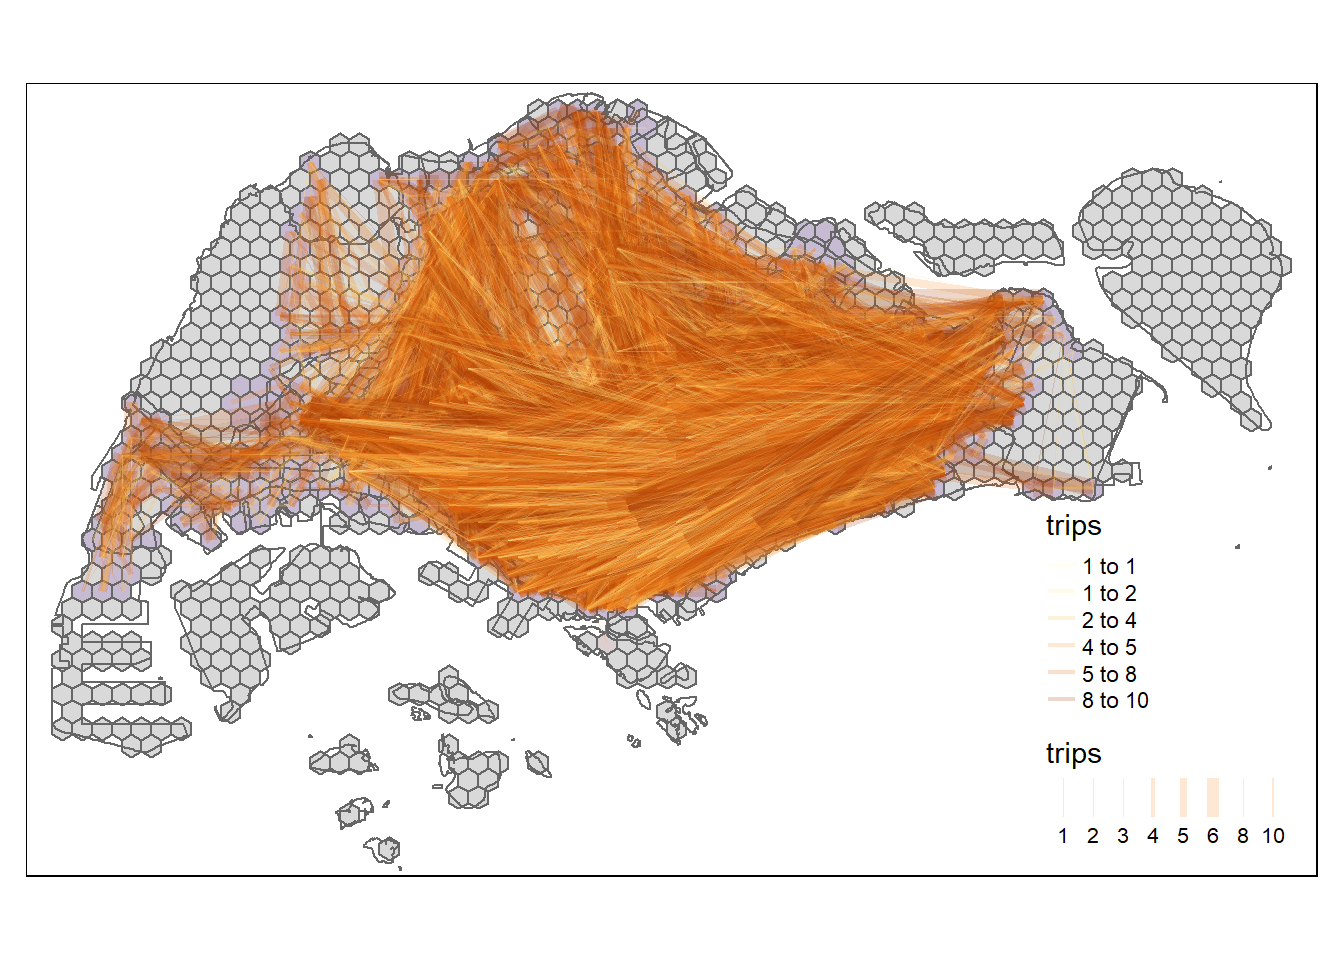
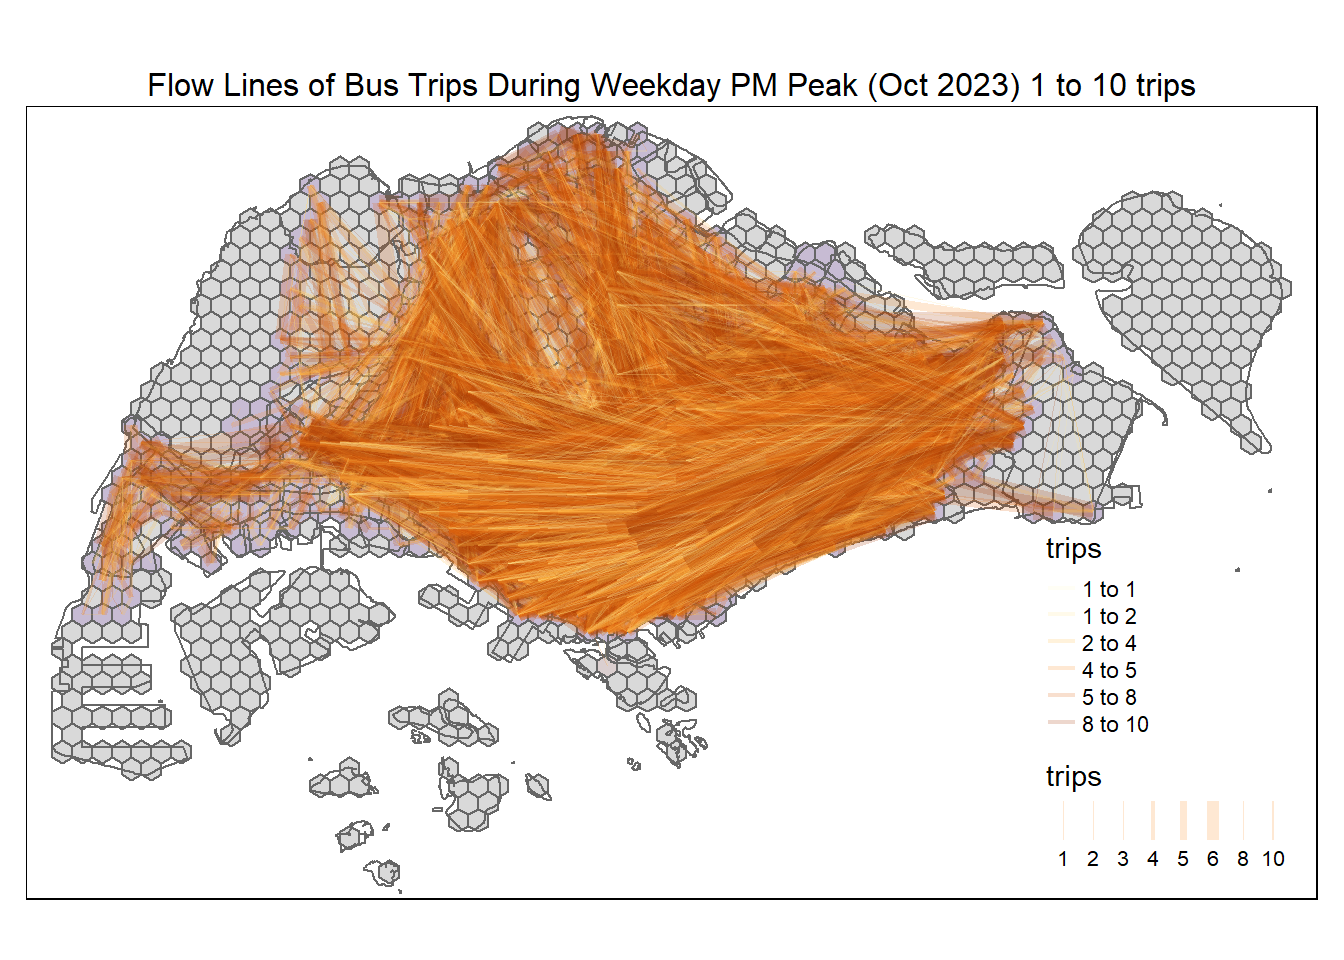
Commit Take-home Ex02

Changed region(s): [[0.0312, 0.0625, 0.9688, 0.8438], [0.0312, 0.6875, 0.9688, 0.9375]]

diff --git a/_site/Take_Home_Ex/Take_home_Ex02/Take_home_Ex02.html b/_site/Take_Home_Ex/Take_home_Ex02/Take_home_Ex02.html
@@ -691,7 +691,10 @@ Projected CRS: SVY21 / Singapore TM
 <span id="cb33-10"><a href="#cb33-10" aria-hidden="true" tabindex="-1"></a>           <span class="at">style =</span> <span class="st">"quantile"</span>,</span>
 <span id="cb33-11"><a href="#cb33-11" aria-hidden="true" tabindex="-1"></a>           <span class="at">scale =</span> <span class="fu">c</span>(<span class="fl">0.1</span>,<span class="dv">1</span>,<span class="dv">3</span>,<span class="dv">5</span>,<span class="dv">7</span>,<span class="dv">10</span>),</span>
 <span id="cb33-12"><a href="#cb33-12" aria-hidden="true" tabindex="-1"></a>           <span class="at">n =</span> <span class="dv">6</span>,</span>
-<span id="cb33-13"><a href="#cb33-13" aria-hidden="true" tabindex="-1"></a>           <span class="at">alpha =</span> <span class="fl">0.3</span>) </span></code><button title="Copy to Clipboard" class="code-copy-button"><i class="bi"></i></button></pre></div>
+<span id="cb33-13"><a href="#cb33-13" aria-hidden="true" tabindex="-1"></a>           <span class="at">alpha =</span> <span class="fl">0.3</span>) <span class="sc">+</span></span>
+<span id="cb33-14"><a href="#cb33-14" aria-hidden="true" tabindex="-1"></a><span class="fu">tm_layout</span>(<span class="at">main.title =</span> <span class="st">"Flow Lines of Bus Trips During Weekday PM Peak (Oct 2023)"</span>,</span>
+<span id="cb33-15"><a href="#cb33-15" aria-hidden="true" tabindex="-1"></a>          <span class="at">main.title.position =</span> <span class="st">"center"</span>,</span>
+<span id="cb33-16"><a href="#cb33-16" aria-hidden="true" tabindex="-1"></a>          <span class="at">main.title.size =</span> <span class="dv">1</span>)</span></code><button title="Copy to Clipboard" class="code-copy-button"><i class="bi"></i></button></pre></div>
 <div class="cell-output-display">
 <p><img src="Take_home_Ex02_files/figure-html/unnamed-chunk-18-1.png" class="img-fluid" width="672"></p>
 </div>
@@ -751,7 +754,7 @@ Projected CRS: SVY21 / Singapore TM
 <span id="cb38-21"><a href="#cb38-21" aria-hidden="true" tabindex="-1"></a></span>
 <span id="cb38-22"><a href="#cb38-22" aria-hidden="true" tabindex="-1"></a><span class="co"># plot flow lines</span></span>
 <span id="cb38-23"><a href="#cb38-23" aria-hidden="true" tabindex="-1"></a>flow_line <span class="sc">%&gt;%</span></span>
-<span id="cb38-24"><a href="#cb38-24" aria-hidden="true" tabindex="-1"></a>  <span class="co"># where trips are greater than or equal to 214</span></span>
+<span id="cb38-24"><a href="#cb38-24" aria-hidden="true" tabindex="-1"></a>  <span class="co"># where trips are between 1 to 10</span></span>
 <span id="cb38-25"><a href="#cb38-25" aria-hidden="true" tabindex="-1"></a>  <span class="fu">filter</span>(trips <span class="sc">&gt;=</span> <span class="dv">1</span> <span class="sc">&amp;</span> trips <span class="sc">&lt;=</span> <span class="dv">10</span>) <span class="sc">%&gt;%</span></span>
 <span id="cb38-26"><a href="#cb38-26" aria-hidden="true" tabindex="-1"></a><span class="fu">tm_shape</span>() <span class="sc">+</span></span>
 <span id="cb38-27"><a href="#cb38-27" aria-hidden="true" tabindex="-1"></a>  <span class="fu">tm_lines</span>(<span class="at">lwd =</span> <span class="st">"trips"</span>,</span>
@@ -759,7 +762,10 @@ Projected CRS: SVY21 / Singapore TM
 <span id="cb38-29"><a href="#cb38-29" aria-hidden="true" tabindex="-1"></a>           <span class="at">scale =</span> <span class="fu">c</span>(<span class="fl">0.1</span>,<span class="dv">1</span>,<span class="dv">3</span>,<span class="dv">5</span>,<span class="dv">7</span>,<span class="dv">10</span>),</span>
 <span id="cb38-30"><a href="#cb38-30" aria-hidden="true" tabindex="-1"></a>           <span class="at">n =</span> <span class="dv">6</span>,</span>
 <span id="cb38-31"><a href="#cb38-31" aria-hidden="true" tabindex="-1"></a>           <span class="at">alpha =</span> <span class="fl">0.2</span>,</span>
-<span id="cb38-32"><a href="#cb38-32" aria-hidden="true" tabindex="-1"></a>           <span class="at">col =</span> <span class="st">'trips'</span>)</span></code><button title="Copy to Clipboard" class="code-copy-button"><i class="bi"></i></button></pre></div>
+<span id="cb38-32"><a href="#cb38-32" aria-hidden="true" tabindex="-1"></a>           <span class="at">col =</span> <span class="st">'trips'</span>) <span class="sc">+</span></span>
+<span id="cb38-33"><a href="#cb38-33" aria-hidden="true" tabindex="-1"></a><span class="fu">tm_layout</span>(<span class="at">main.title =</span> <span class="st">"Flow Lines of Bus Trips During Weekday PM Peak (Oct 2023) 1 to 10 trips"</span>,</span>
+<span id="cb38-34"><a href="#cb38-34" aria-hidden="true" tabindex="-1"></a>          <span class="at">main.title.position =</span> <span class="st">"center"</span>,</span>
+<span id="cb38-35"><a href="#cb38-35" aria-hidden="true" tabindex="-1"></a>          <span class="at">main.title.size =</span> <span class="dv">1</span>)</span></code><button title="Copy to Clipboard" class="code-copy-button"><i class="bi"></i></button></pre></div>
 </details>
 <div class="cell-output-display">
 <p><img src="Take_home_Ex02_files/figure-html/unnamed-chunk-22-1.png" class="img-fluid" width="672"></p>
@@ -797,14 +803,17 @@ Projected CRS: SVY21 / Singapore TM
 <span id="cb39-25"><a href="#cb39-25" aria-hidden="true" tabindex="-1"></a>  <span class="fu">filter</span>(trips <span class="sc">==</span> <span class="dv">1</span>) <span class="sc">%&gt;%</span></span>
 <span id="cb39-26"><a href="#cb39-26" aria-hidden="true" tabindex="-1"></a><span class="fu">tm_shape</span>() <span class="sc">+</span></span>
 <span id="cb39-27"><a href="#cb39-27" aria-hidden="true" tabindex="-1"></a>  <span class="fu">tm_lines</span>(<span class="at">lwd =</span> <span class="st">"trips"</span>,</span>
-<span id="cb39-28"><a href="#cb39-28" aria-hidden="true" tabindex="-1"></a>           <span class="at">alpha =</span> <span class="fl">0.2</span>)</span></code><button title="Copy to Clipboard" class="code-copy-button"><i class="bi"></i></button></pre></div>
+<span id="cb39-28"><a href="#cb39-28" aria-hidden="true" tabindex="-1"></a>           <span class="at">alpha =</span> <span class="fl">0.2</span>) <span class="sc">+</span></span>
+<span id="cb39-29"><a href="#cb39-29" aria-hidden="true" tabindex="-1"></a><span class="fu">tm_layout</span>(<span class="at">main.title =</span> <span class="st">"Flow Lines of Bus Trips During Weekday PM Peak (Oct 2023) 1 trip"</span>,</span>
+<span id="cb39-30"><a href="#cb39-30" aria-hidden="true" tabindex="-1"></a>          <span class="at">main.title.position =</span> <span class="st">"center"</span>,</span>
+<span id="cb39-31"><a href="#cb39-31" aria-hidden="true" tabindex="-1"></a>          <span class="at">main.title.size =</span> <span class="dv">1</span>)</span></code><button title="Copy to Clipboard" class="code-copy-button"><i class="bi"></i></button></pre></div>
 </details>
 <div class="cell-output-display">
 <p><img src="Take_home_Ex02_files/figure-html/unnamed-chunk-23-1.png" class="img-fluid" width="672"></p>
 </div>
 </div>
 <p>We can observe more clearly that flow lines with only one trip recorded tend to cross paths or converge at the southern-central region. Higher number of flows are observed between the western, eastern, and central regions of Singapore. Some flow lines are also observed in the outskirt regions of Singapore in Lim Chu Kang and Tuas.</p>
-<p>Next, we will visualise flow lines with 10 to 46 trips recorded:</p>
+<p>Next, we will visualise flow lines with 11 to 46 trips recorded:</p>
 <div class="cell">
 <details>
 <summary>Show the code</summary>
@@ -831,21 +840,24 @@ Projected CRS: SVY21 / Singapore TM
 <span id="cb40-21"><a href="#cb40-21" aria-hidden="true" tabindex="-1"></a></span>
 <span id="cb40-22"><a href="#cb40-22" aria-hidden="true" tabindex="-1"></a><span class="co"># plot flow lines</span></span>
 <span id="cb40-23"><a href="#cb40-23" aria-hidden="true" tabindex="-1"></a>flow_line <span class="sc">%&gt;%</span></span>
-<span id="cb40-24"><a href="#cb40-24" aria-hidden="true" tabindex="-1"></a>  <span class="co"># where trips are between 10 and 46</span></span>
-<span id="cb40-25"><a href="#cb40-25" aria-hidden="true" tabindex="-1"></a>  <span class="fu">filter</span>(trips <span class="sc">&gt;=</span> <span class="dv">10</span> <span class="sc">&amp;</span> trips <span class="sc">&lt;=</span> <span class="dv">46</span>) <span class="sc">%&gt;%</span></span>
+<span id="cb40-24"><a href="#cb40-24" aria-hidden="true" tabindex="-1"></a>  <span class="co"># where trips are between 11 and 46</span></span>
+<span id="cb40-25"><a href="#cb40-25" aria-hidden="true" tabindex="-1"></a>  <span class="fu">filter</span>(trips <span class="sc">&gt;=</span> <span class="dv">11</span> <span class="sc">&amp;</span> trips <span class="sc">&lt;=</span> <span class="dv">46</span>) <span class="sc">%&gt;%</span></span>
 <span id="cb40-26"><a href="#cb40-26" aria-hidden="true" tabindex="-1"></a><span class="fu">tm_shape</span>() <span class="sc">+</span></span>
 <span id="cb40-27"><a href="#cb40-27" aria-hidden="true" tabindex="-1"></a>  <span class="fu">tm_lines</span>(<span class="at">lwd =</span> <span class="st">"trips"</span>,</span>
 <span id="cb40-28"><a href="#cb40-28" aria-hidden="true" tabindex="-1"></a>           <span class="at">style =</span> <span class="st">"quantile"</span>,</span>
 <span id="cb40-29"><a href="#cb40-29" aria-hidden="true" tabindex="-1"></a>           <span class="at">scale =</span> <span class="fu">c</span>(<span class="fl">0.1</span>,<span class="dv">1</span>,<span class="dv">3</span>,<span class="dv">5</span>,<span class="dv">7</span>,<span class="dv">10</span>),</span>
 <span id="cb40-30"><a href="#cb40-30" aria-hidden="true" tabindex="-1"></a>           <span class="at">n =</span> <span class="dv">6</span>,</span>
 <span id="cb40-31"><a href="#cb40-31" aria-hidden="true" tabindex="-1"></a>           <span class="at">alpha =</span> <span class="fl">0.2</span>,</span>
-<span id="cb40-32"><a href="#cb40-32" aria-hidden="true" tabindex="-1"></a>           <span class="at">col =</span> <span class="st">"trips"</span>)</span></code><button title="Copy to Clipboard" class="code-copy-button"><i class="bi"></i></button></pre></div>
+<span id="cb40-32"><a href="#cb40-32" aria-hidden="true" tabindex="-1"></a>           <span class="at">col =</span> <span class="st">"trips"</span>) <span class="sc">+</span></span>
+<span id="cb40-33"><a href="#cb40-33" aria-hidden="true" tabindex="-1"></a><span class="fu">tm_layout</span>(<span class="at">main.title =</span> <span class="st">"Flow Lines of Bus Trips During Weekday PM Peak (Oct 2023) 11 to 46 trips"</span>,</span>
+<span id="cb40-34"><a href="#cb40-34" aria-hidden="true" tabindex="-1"></a>          <span class="at">main.title.position =</span> <span class="st">"center"</span>,</span>
+<span id="cb40-35"><a href="#cb40-35" aria-hidden="true" tabindex="-1"></a>          <span class="at">main.title.size =</span> <span class="dv">1</span>)</span></code><button title="Copy to Clipboard" class="code-copy-button"><i class="bi"></i></button></pre></div>
 </details>
 <div class="cell-output-display">
 <p><img src="Take_home_Ex02_files/figure-html/unnamed-chunk-24-1.png" class="img-fluid" width="672"></p>
 </div>
 </div>
-<p>Next, we will visualise flow lines with 46 to 214 trips recorded:</p>
+<p>Next, we will visualise flow lines with 47 to 214 trips recorded:</p>
 <div class="cell">
 <details>
 <summary>Show the code</summary>
@@ -872,22 +884,25 @@ Projected CRS: SVY21 / Singapore TM
 <span id="cb41-21"><a href="#cb41-21" aria-hidden="true" tabindex="-1"></a></span>
 <span id="cb41-22"><a href="#cb41-22" aria-hidden="true" tabindex="-1"></a><span class="co"># plot flow lines</span></span>
 <span id="cb41-23"><a href="#cb41-23" aria-hidden="true" tabindex="-1"></a>flow_line <span class="sc">%&gt;%</span></span>
-<span id="cb41-24"><a href="#cb41-24" aria-hidden="true" tabindex="-1"></a>  <span class="co"># where trips are between 46 and 214</span></span>
-<span id="cb41-25"><a href="#cb41-25" aria-hidden="true" tabindex="-1"></a>  <span class="fu">filter</span>(trips <span class="sc">&gt;=</span> <span class="dv">46</span> <span class="sc">&amp;</span> trips <span class="sc">&lt;=</span> <span class="dv">214</span>) <span class="sc">%&gt;%</span></span>
+<span id="cb41-24"><a href="#cb41-24" aria-hidden="true" tabindex="-1"></a>  <span class="co"># where trips are between 47 and 214</span></span>
+<span id="cb41-25"><a href="#cb41-25" aria-hidden="true" tabindex="-1"></a>  <span class="fu">filter</span>(trips <span class="sc">&gt;=</span> <span class="dv">47</span> <span class="sc">&amp;</span> trips <span class="sc">&lt;=</span> <span class="dv">214</span>) <span class="sc">%&gt;%</span></span>
 <span id="cb41-26"><a href="#cb41-26" aria-hidden="true" tabindex="-1"></a><span class="fu">tm_shape</span>() <span class="sc">+</span></span>
 <span id="cb41-27"><a href="#cb41-27" aria-hidden="true" tabindex="-1"></a>  <span class="fu">tm_lines</span>(<span class="at">lwd =</span> <span class="st">"trips"</span>,</span>
 <span id="cb41-28"><a href="#cb41-28" aria-hidden="true" tabindex="-1"></a>           <span class="at">style =</span> <span class="st">"quantile"</span>,</span>
 <span id="cb41-29"><a href="#cb41-29" aria-hidden="true" tabindex="-1"></a>           <span class="at">scale =</span> <span class="fu">c</span>(<span class="fl">0.1</span>,<span class="dv">1</span>,<span class="dv">3</span>,<span class="dv">5</span>,<span class="dv">7</span>,<span class="dv">10</span>),</span>
 <span id="cb41-30"><a href="#cb41-30" aria-hidden="true" tabindex="-1"></a>           <span class="at">n =</span> <span class="dv">6</span>,</span>
 <span id="cb41-31"><a href="#cb41-31" aria-hidden="true" tabindex="-1"></a>           <span class="at">alpha =</span> <span class="fl">0.2</span>,</span>
-<span id="cb41-32"><a href="#cb41-32" aria-hidden="true" tabindex="-1"></a>           <span class="at">col =</span> <span class="st">"trips"</span>) </span></code><button title="Copy to Clipboard" class="code-copy-button"><i class="bi"></i></button></pre></div>
+<span id="cb41-32"><a href="#cb41-32" aria-hidden="true" tabindex="-1"></a>           <span class="at">col =</span> <span class="st">"trips"</span>) <span class="sc">+</span></span>
+<span id="cb41-33"><a href="#cb41-33" aria-hidden="true" tabindex="-1"></a><span class="fu">tm_layout</span>(<span class="at">main.title =</span> <span class="st">"Flow Lines of Bus Trips During Weekday PM Peak (Oct 2023) 47 to 214 trips"</span>,</span>
+<span id="cb41-34"><a href="#cb41-34" aria-hidden="true" tabindex="-1"></a>          <span class="at">main.title.position =</span> <span class="st">"center"</span>,</span>
+<span id="cb41-35"><a href="#cb41-35" aria-hidden="true" tabindex="-1"></a>          <span class="at">main.title.size =</span> <span class="dv">1</span>)</span></code><button title="Copy to Clipboard" class="code-copy-button"><i class="bi"></i></button></pre></div>
 </details>
 <div class="cell-output-display">
 <p><img src="Take_home_Ex02_files/figure-html/unnamed-chunk-25-1.png" class="img-fluid" width="672"></p>
 </div>
 </div>
 <p>Not much commuter flow patterns can be deciphered from both visualisations of 10 to 46 trips and 46 to 214 trips. Many of the flow lines were overlapping around the southern-central region. However, some flows can be observed between the northern and central regions, eastern and central regions, and western to central regions of Singapore from both visualisations.</p>
-<p>Lastly, we will visualise flow lines with more than or equal to 214 trips recorded:</p>
+<p>Lastly, we will visualise flow lines with more than 214 trips recorded:</p>
 <div class="cell">
 <details>
 <summary>Show the code</summary>
@@ -914,15 +929,18 @@ Projected CRS: SVY21 / Singapore TM
 <span id="cb42-21"><a href="#cb42-21" aria-hidden="true" tabindex="-1"></a></span>
 <span id="cb42-22"><a href="#cb42-22" aria-hidden="true" tabindex="-1"></a><span class="co"># plot flow lines</span></span>
 <span id="cb42-23"><a href="#cb42-23" aria-hidden="true" tabindex="-1"></a>flow_line <span class="sc">%&gt;%</span></span>
-<span id="cb42-24"><a href="#cb42-24" aria-hidden="true" tabindex="-1"></a>  <span class="co"># where trips are greater than or equal to 214</span></span>
-<span id="cb42-25"><a href="#cb42-25" aria-hidden="true" tabindex="-1"></a>  <span class="fu">filter</span>(trips <span class="sc">&gt;=</span> <span class="dv">214</span>) <span class="sc">%&gt;%</span></span>
+<span id="cb42-24"><a href="#cb42-24" aria-hidden="true" tabindex="-1"></a>  <span class="co"># where trips are greater than 214</span></span>
+<span id="cb42-25"><a href="#cb42-25" aria-hidden="true" tabindex="-1"></a>  <span class="fu">filter</span>(trips <span class="sc">&gt;=</span> <span class="dv">215</span>) <span class="sc">%&gt;%</span></span>
 <span id="cb42-26"><a href="#cb42-26" aria-hidden="true" tabindex="-1"></a><span class="fu">tm_shape</span>() <span class="sc">+</span></span>
 <span id="cb42-27"><a href="#cb42-27" aria-hidden="true" tabindex="-1"></a>  <span class="fu">tm_lines</span>(<span class="at">lwd =</span> <span class="st">"trips"</span>,</span>
 <span id="cb42-28"><a href="#cb42-28" aria-hidden="true" tabindex="-1"></a>           <span class="at">style =</span> <span class="st">"quantile"</span>,</span>
 <span id="cb42-29"><a href="#cb42-29" aria-hidden="true" tabindex="-1"></a>           <span class="at">scale =</span> <span class="fu">c</span>(<span class="fl">0.1</span>,<span class="dv">1</span>,<span class="dv">3</span>,<span class="dv">5</span>,<span class="dv">7</span>,<span class="dv">15</span>),</span>
 <span id="cb42-30"><a href="#cb42-30" aria-hidden="true" tabindex="-1"></a>           <span class="at">n =</span> <span class="dv">6</span>,</span>
 <span id="cb42-31"><a href="#cb42-31" aria-hidden="true" tabindex="-1"></a>           <span class="at">alpha =</span> <span class="dv">1</span>,</span>
-<span id="cb42-32"><a href="#cb42-32" aria-hidden="true" tabindex="-1"></a>           <span class="at">col =</span> <span class="st">"trips"</span>)</span></code><button title="Copy to Clipboard" class="code-copy-button"><i class="bi"></i></button></pre></div>
+<span id="cb42-32"><a href="#cb42-32" aria-hidden="true" tabindex="-1"></a>           <span class="at">col =</span> <span class="st">"trips"</span>) <span class="sc">+</span></span>
+<span id="cb42-33"><a href="#cb42-33" aria-hidden="true" tabindex="-1"></a><span class="fu">tm_layout</span>(<span class="at">main.title =</span> <span class="st">"Flow Lines of Bus Trips During Weekday PM Peak (Oct 2023) &gt; 214 trips"</span>,</span>
+<span id="cb42-34"><a href="#cb42-34" aria-hidden="true" tabindex="-1"></a>          <span class="at">main.title.position =</span> <span class="st">"center"</span>,</span>
+<span id="cb42-35"><a href="#cb42-35" aria-hidden="true" tabindex="-1"></a>          <span class="at">main.title.size =</span> <span class="dv">1</span>)</span></code><button title="Copy to Clipboard" class="code-copy-button"><i class="bi"></i></button></pre></div>
 </details>
 <div class="cell-output-display">
 <p><img src="Take_home_Ex02_files/figure-html/unnamed-chunk-26-1.png" class="img-fluid" width="672"></p>
